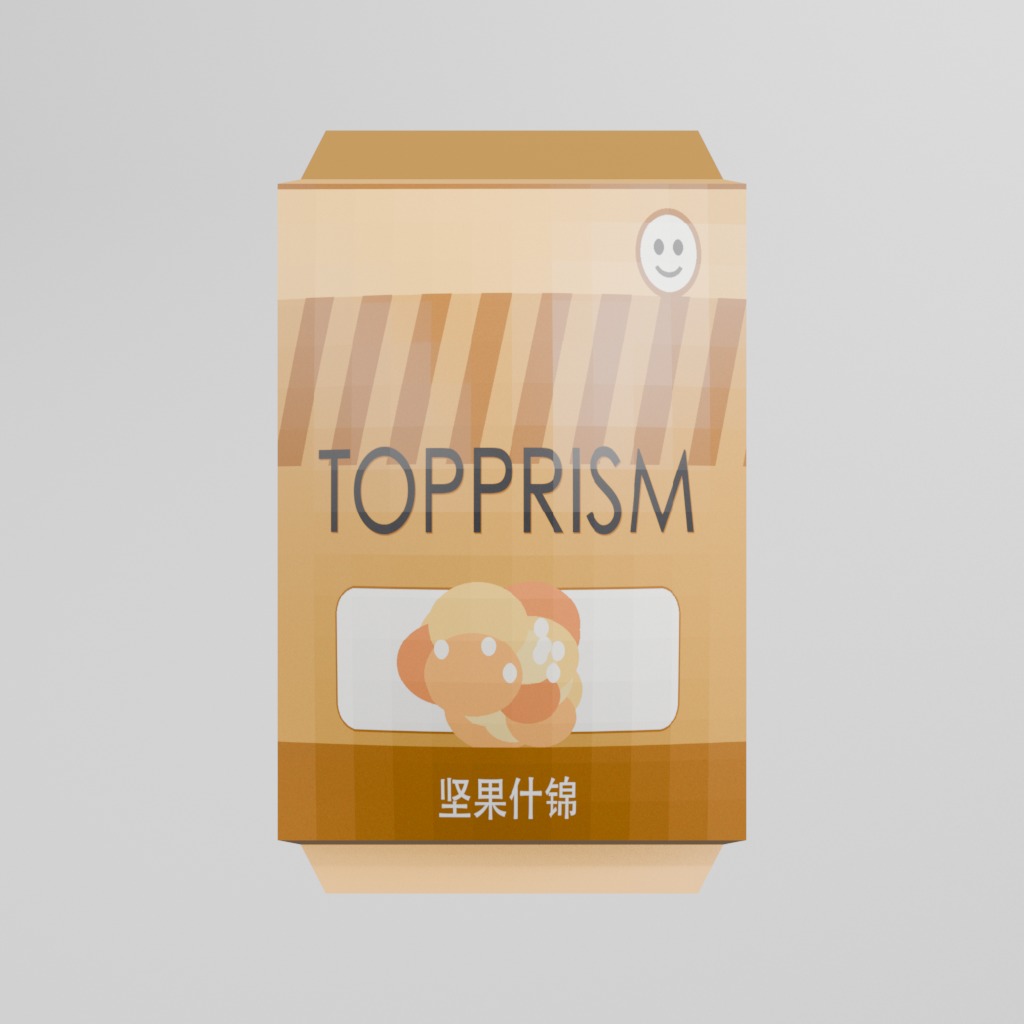
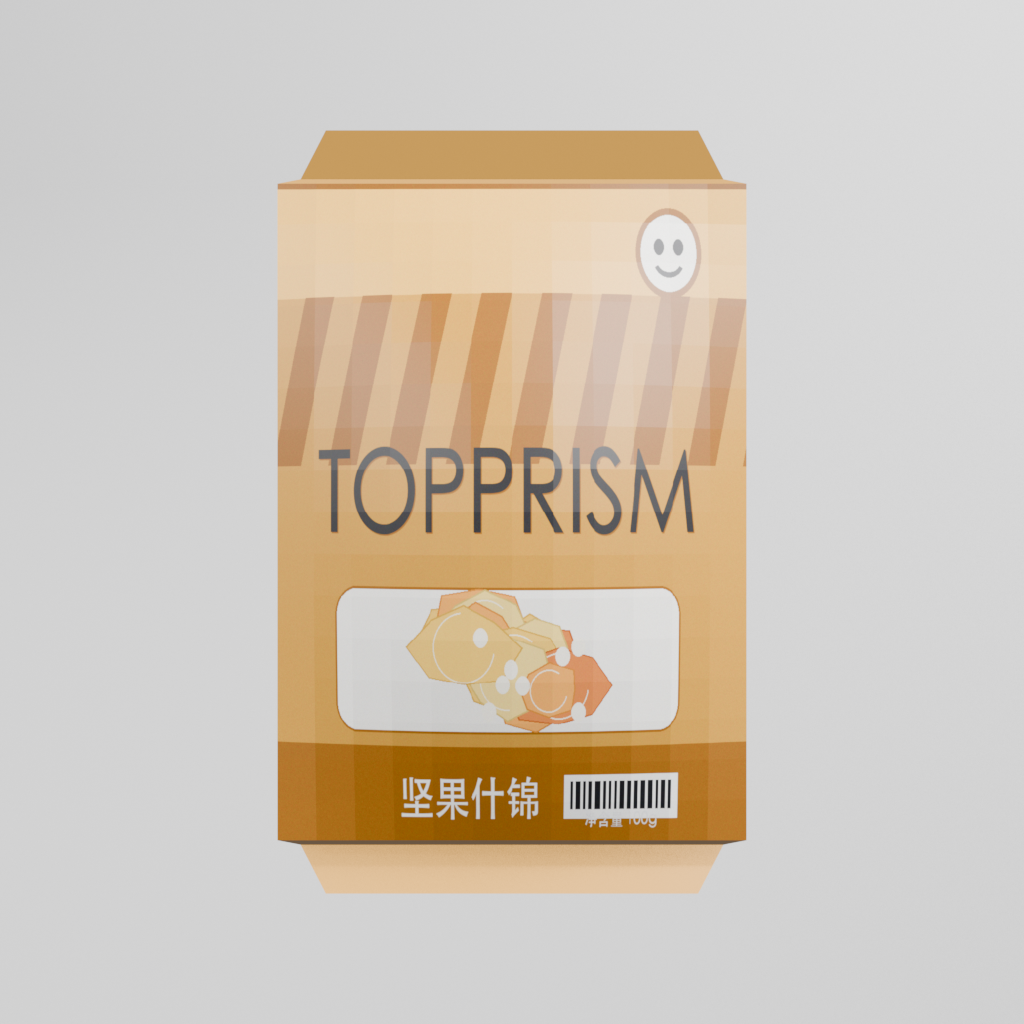
资产栈续D5: 段式排面(一层4-6色段守参照)+印刷微细节(薯片多边形描边/条码净含量微字/灯位微差); D5a段内同变体平铺反输0.3 → D5b逐袋变体胜 v25 7.2 -> v26b 7.8 (真实差距0.7) 新基线

Changed region(s): [[0.375, 0.5625, 0.6875, 0.8125]]

diff --git a/scripts/bag_print.py b/scripts/bag_print.py
@@ -50,22 +50,40 @@ def render_print(S: int, col, sub: str, seed: int = 0, label: str = "TOPPRISM") 
     # 3) 食品窗内容: 暖色椭圆簇 (薯片堆意象, 充满窗) + 高光点
     cx, cy = (win[0] + win[2]) / 2, (win[1] + win[3]) / 2 + S * 0.01
     warm = [(243, 196, 80), (238, 160, 66), (214, 120, 52), (245, 214, 120)]
-    for k in range(22):
+    for k in range(18):
         ang = rng.random() * math.pi * 2
-        rad = rng.random() * S * 0.145
+        rad = rng.random() * S * 0.14
         ex, ey = cx + math.cos(ang) * rad, cy + math.sin(ang) * rad * 0.62
-        ew = S * (0.06 + rng.random() * 0.05)
+        ew = S * (0.055 + rng.random() * 0.05)
         c = warm[k % len(warm)]
-        d.ellipse([ex - ew, ey - ew * 0.62, ex + ew, ey + ew * 0.62], fill=c)
+        # 不规则波浪边薯片 (8 顶点多边形+深色描边) — 纯椭圆=生成感
+        pts = []
+        for m in range(8):
+            a2 = m / 8 * math.pi * 2
+            wob = 1.0 + (rng.random() - 0.5) * 0.34
+            pts.append((ex + math.cos(a2) * ew * wob, ey + math.sin(a2) * ew * 0.62 * wob))
+        d.polygon(pts, fill=c, outline=tuple(max(0, cc - 40) for cc in c), width=max(2, S // 320))
+        # 内弧纹理 (薯片弧度)
+        d.arc([ex - ew * 0.6, ey - ew * 0.5, ex + ew * 0.6, ey + ew * 0.5],
+              rng.integers(0, 180), rng.integers(180, 330), fill=(255, 245, 220), width=max(2, S // 400))
     for k in range(8):
         hx = cx + (rng.random() - 0.5) * S * 0.3
         hy = cy + (rng.random() - 0.5) * S * 0.16
         hr = S * 0.014
         d.ellipse([hx - hr, hy - hr, hx + hr, hy + hr], fill=(255, 250, 235))
-    # 4) 风味横幅 (底部深色带 + 品名小注)
+    # 4) 风味横幅 (底部深色带 + 品名小注 + 条码/净含量微字)
     d.rectangle([0, int(S * 0.84), S, S], fill=dark)
     f2 = ImageFont.truetype(FONT, int(S * 0.075), index=0)
-    d.text((S // 2, int(S * 0.92)), sub, font=f2, fill=(255, 255, 255), anchor="mm")
+    d.text((int(S * 0.42), int(S * 0.92)), sub, font=f2, fill=(255, 255, 255), anchor="mm")
+    bx, bw_, bh_ = S * 0.62, S * 0.24, S * 0.07
+    d.rectangle([bx, S * 0.885, bx + bw_, S * 0.885 + bh_], fill=(248, 248, 246))
+    xx = bx + S * 0.012
+    while xx < bx + bw_ - S * 0.015:
+        lw = S * (0.004 + rng.random() * 0.008)
+        d.rectangle([xx, S * 0.895, xx + lw, S * 0.885 + bh_ * 0.78], fill=(20, 20, 24))
+        xx += lw + S * 0.006
+    f3 = ImageFont.truetype(FONT, int(S * 0.028), index=0)
+    d.text((bx + bw_ / 2, S * 0.955), "净含量 100g", font=f3, fill=(230, 230, 232), anchor="mm")
     # 5) 吉祥物圆徽 (右上)
     mx, my, mr = S * 0.84, S * 0.10, S * 0.07
     d.ellipse([mx - mr, my - mr, mx + mr, my + mr], fill=(250, 248, 242), outline=dark, width=S // 90)

diff --git a/scripts/build_hxl_shelf.py b/scripts/build_hxl_shelf.py
@@ -261,18 +261,21 @@ def main():
         fam = LEVEL_PLAN[lv % len(LEVEL_PLAN)]
         picks = [a for a in ASSETS if a.stem in fam] or ASSETS
         rng = np.random.default_rng(lv * 31 + 7)
-        # 参照语言: 每层=1 色系主设计 (族内同形重复=真实理货态) + 次设计占 1/4 位
-        j_main = lv % len(ASSETS)
-        j_second = (lv * 5 + 3) % len(ASSETS)
-        crop0 = crop_bag(ASSETS[j_main], seed=lv * 7)
+        # 参照语言 v2: 一层=左右 4-6 色段 (段内同设计同变体, 色块边界清晰如色带)
+        n_seg = 4 + lv % 3
+        seg_design = [(lv * 3 + k * 5) % len(ASSETS) for k in range(n_seg)]
+        # 段内同设计但逐袋变体 (D5a: 同变体连贴=平铺信号, 反输 0.3)
+        crop0 = crop_bag(ASSETS[seg_design[0]], seed=lv * 7)
         tex_ar = Image.open(crop0).width / Image.open(crop0).height
         bag_h0 = LEVEL_H * 0.74
         n = max(16, int(SHELF_W / (bag_h0 * tex_ar * 1.04)))  # 满排相触 16-24/层 (参照 20-30)
         bw = SHELF_W / n
+        seg_edges = sorted(rng.choice(range(3, n - 2), size=n_seg - 1, replace=False).tolist())
         for r_i, (y_off, s0, sh) in enumerate(((DEPTH / 2 - 0.06, 1.0, 0.0),
                                                (DEPTH / 2 - 0.17, 0.92, 0.5))):
             for i in range(n):
-                j = j_second if (i + lv) % 4 == 0 else j_main  # 次设计 1/4 (段内混排近似)
+                si = sum(1 for e in seg_edges if i >= e)
+                j = seg_design[(si + r_i) % n_seg]
                 a = crop_bag(ASSETS[j], seed=lv * 31 + r_i * 17 + i)
                 ar = Image.open(a).width / Image.open(a).height
                 h_bag = bag_h0 * s0 * (0.96 + rng.random() * 0.08)
@@ -297,8 +300,9 @@ def main():
         lt = bpy.data.lights.new(f"strip{lv}", "AREA")
         lt.size = SHELF_W * 0.9; lt.size_y = 0.05
         lt.energy = 24 * (0.8 + 0.4 * ((lv * 0.37) % 1.0))  # 层间光差 ±20%
+        strip_x = ((lv * 0.53) % 1.0 - 0.5) * 0.12  # 灯位微差 (非严格居中)
         lo = bpy.data.objects.new(f"strip{lv}", lt)
-        lo.location = (0, DEPTH - 0.10, z0 + 0.05)
+        lo.location = (strip_x, DEPTH - 0.10, z0 + 0.05)
         lo.rotation_euler = (math.radians(-70), 0, 0)
         sc.collection.objects.link(lo)
 

diff --git a/docs/reviews/shelf_convergence.md b/docs/reviews/shelf_convergence.md
@@ -49,3 +49,14 @@ D3 系列 GPT 两次建议与参照真值冲突, 均按「从参照不从 review
 **裁决与转向**: 真枕形网格实例化记为负结果存证(执行质量不足以兑现几何真值, 撤线); 资产栈火力转投印刷纹理富化(bag_print.py 共享模块), 喂给 v23b 基线 → v25 成为新基线。
 
 剩余 Top 问题 (GPT 末轮): 中文标签生成痕迹 / 材质统一重复 / 光照 3D 感 — 下一轮资产栈迭代项。
+
+## 资产栈续轮 (D5, 2026-11-21)
+
+| 轮 | 对局 | 结果 | 判决 |
+|---|---|---|---|
+| D5a | v25 vs v26(段式+段内同变体) | 7.2 → 6.9 微输 | 段内同变体连贴 4-7 张=平铺信号 |
+| D5b | v25 vs v26b(段式+段内逐袋变体) | 7.2 → **7.8 胜 (+0.6)** | 结构守参照(一层多色段)+变异防平铺 = 正解 |
+
+新基线 **v26b=7.8**, 真实差距 = 8.5 − 7.8 = **0.7**。
+v26 修改: 段式排面(4-6色段/层, 边界随机)、薯片不规则多边形+描边+内弧、条码+净含量微字、灯位微差。
+残余(GPT): 重复纹理/规整排列/文字生成痕迹 — 资产栈深层, 收益递减。
